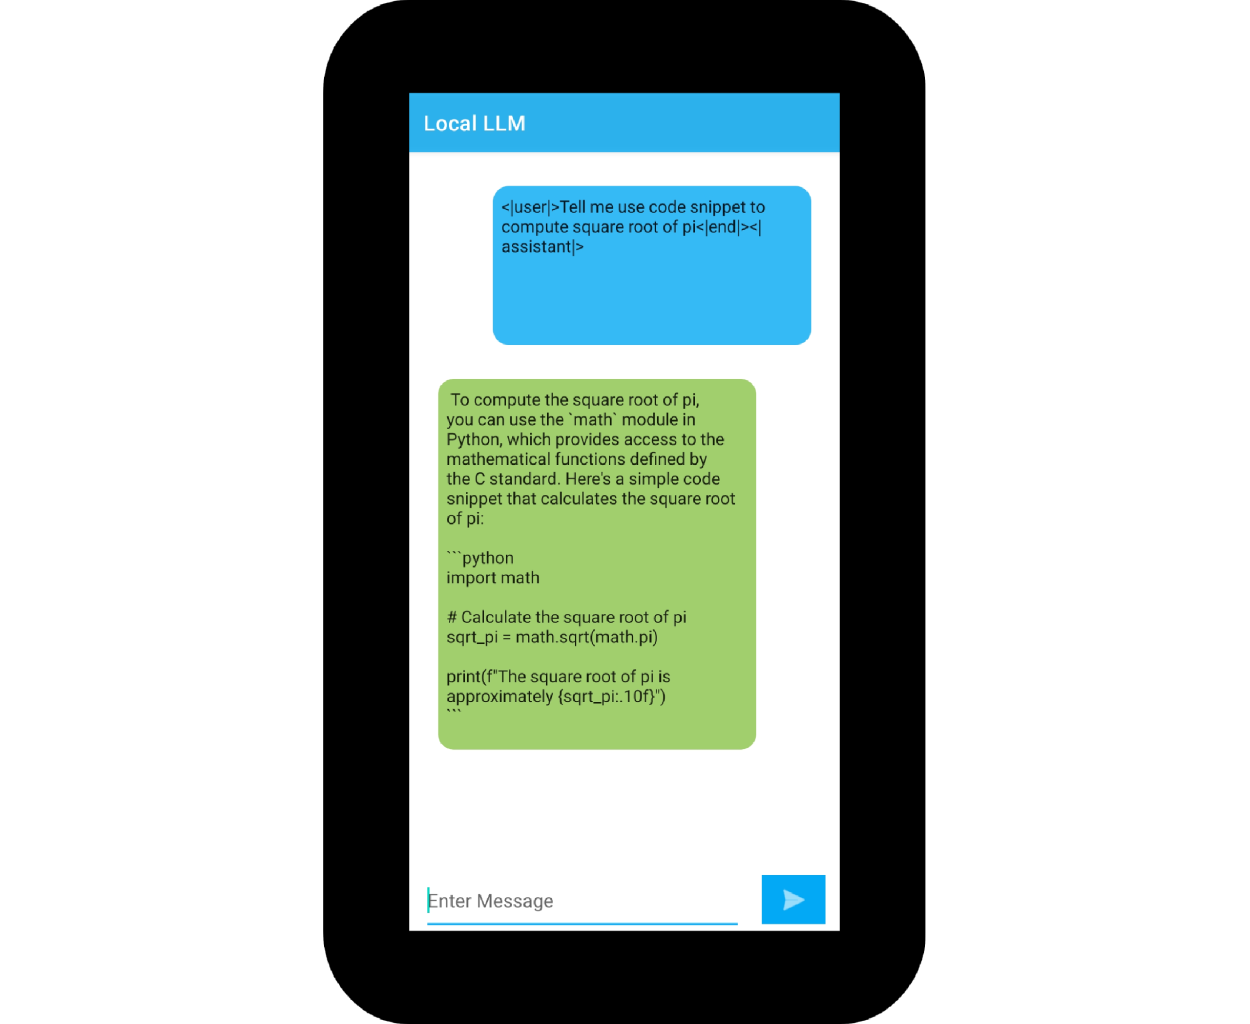
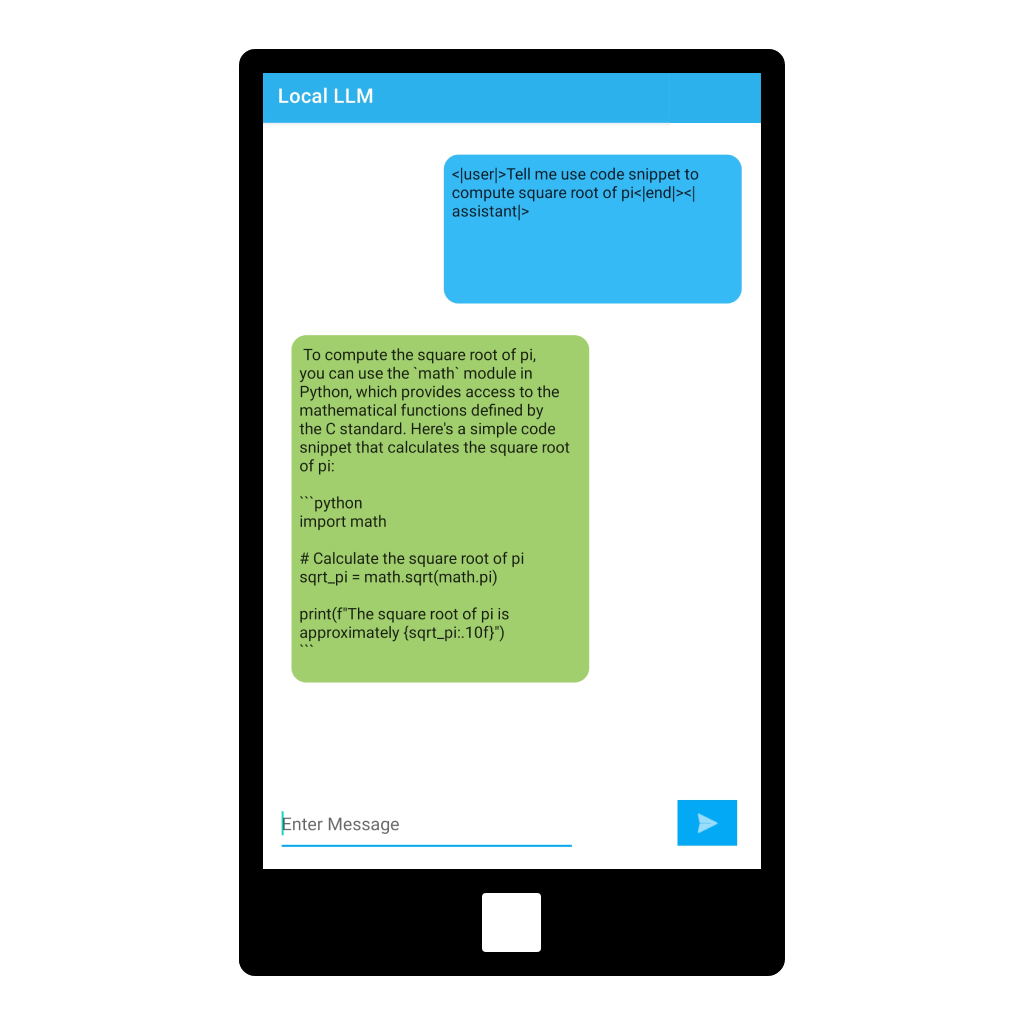
Updated generative ai page. Should be final

diff --git a/src/routes/generative-ai/+page.svelte b/src/routes/generative-ai/+page.svelte
@@ -6,7 +6,7 @@
 	import vision_ui from './vision_UI.png';
 	import mobile from './mobile.png';
 	import desktop from './desktop.png';
-	import browser from './browser.png';
+	import cloud from './browser.png';
 	import aibrain from './aibrain.webp'
 	const title = 'Generative AI';
 	const description =
@@ -18,7 +18,7 @@
 	let authors = [''];
 	let keywords =
 		'onnxruntime, onnx runtime generative ai, onnx runtime generative ai models, onnx runtime generative ai deployment, onnx runtime generative ai performance, onnx runtime generative ai time to market, onnx runtime generative ai deploy anywhere, onnx runtime generative ai boost performance, onnx runtime generative ai improve time to market, onnx runtime generative ai production ready, onnx runtime generative ai lower latency, onnx runtime generative ai higher throughput, onnx runtime generative ai get innovations into production faster, onnx runtime generative ai testimonials, onnx runtime generative ai performance enhancements, onnx runtime generative ai production ready, onnx runtime generative ai lower latency, onnx runtime generative ai higher throughput, onnx runtime generative ai get innovations into production faster, onnx runtime generative ai testimonials, onnx runtime generative ai performance enhancements';
-	let cycleWords = ['Desktop', 'Mobile', 'Browser'];
+	let cycleWords = ['Desktop', 'Mobile', 'Cloud'];
 	let cycleIndex = 0;
 	const interval = setInterval(() => {
 		cycleIndex = (cycleIndex + 1) % cycleWords.length;
@@ -158,8 +158,8 @@
 							width="512px"
 							class="mx-auto mt-4"
 							in:fade={{ duration: 1000 }}
-							src={cycleIndex == 0 ? desktop : cycleIndex == 1 ? mobile : browser}
-							alt="Desktop, mobile, and browser usage of ONNX Runtime Gen AI"
+							src={cycleIndex == 0 ? desktop : cycleIndex == 1 ? mobile : cloud}
+							alt="Desktop, mobile, and cloud usage of ONNX Runtime Gen AI"
 						/>
 					{/key}
 				</h2>
@@ -173,7 +173,7 @@
 				<div class="card bg-base-300 text-neutral-content">
 					<div class="card-body items-center text-center">
 						<h2 class="card-title">Multiplatform</h2>
-						<p>Whether it be Desktop, Mobile, or Browser, run ONNX Runtime on the platform of your choosing!</p>
+						<p>Whether it be Desktop, Mobile, or the Cloud, run ONNX Runtime on the platform of your choosing!</p>
 					</div>
 				</div>
 				<div class="card bg-base-300 text-neutral-content">

diff --git a/src/routes/components/generative-ai-hero.svelte b/src/routes/components/generative-ai-hero.svelte
@@ -15,7 +15,7 @@
 				and more.
 			</p>
 			<br />
-			<a href="https://onnxruntime.ai/docs/genai" class="btn btn-primary">Learn more about ONNX Runtime & Generative AI →</a>
+			<a href="./generative-ai" class="btn btn-primary">Learn more about ONNX Runtime & Generative AI →</a>
 		</div>
 		<div class="m-auto overflow:hidden">
 			<Ortgenerativeai />
